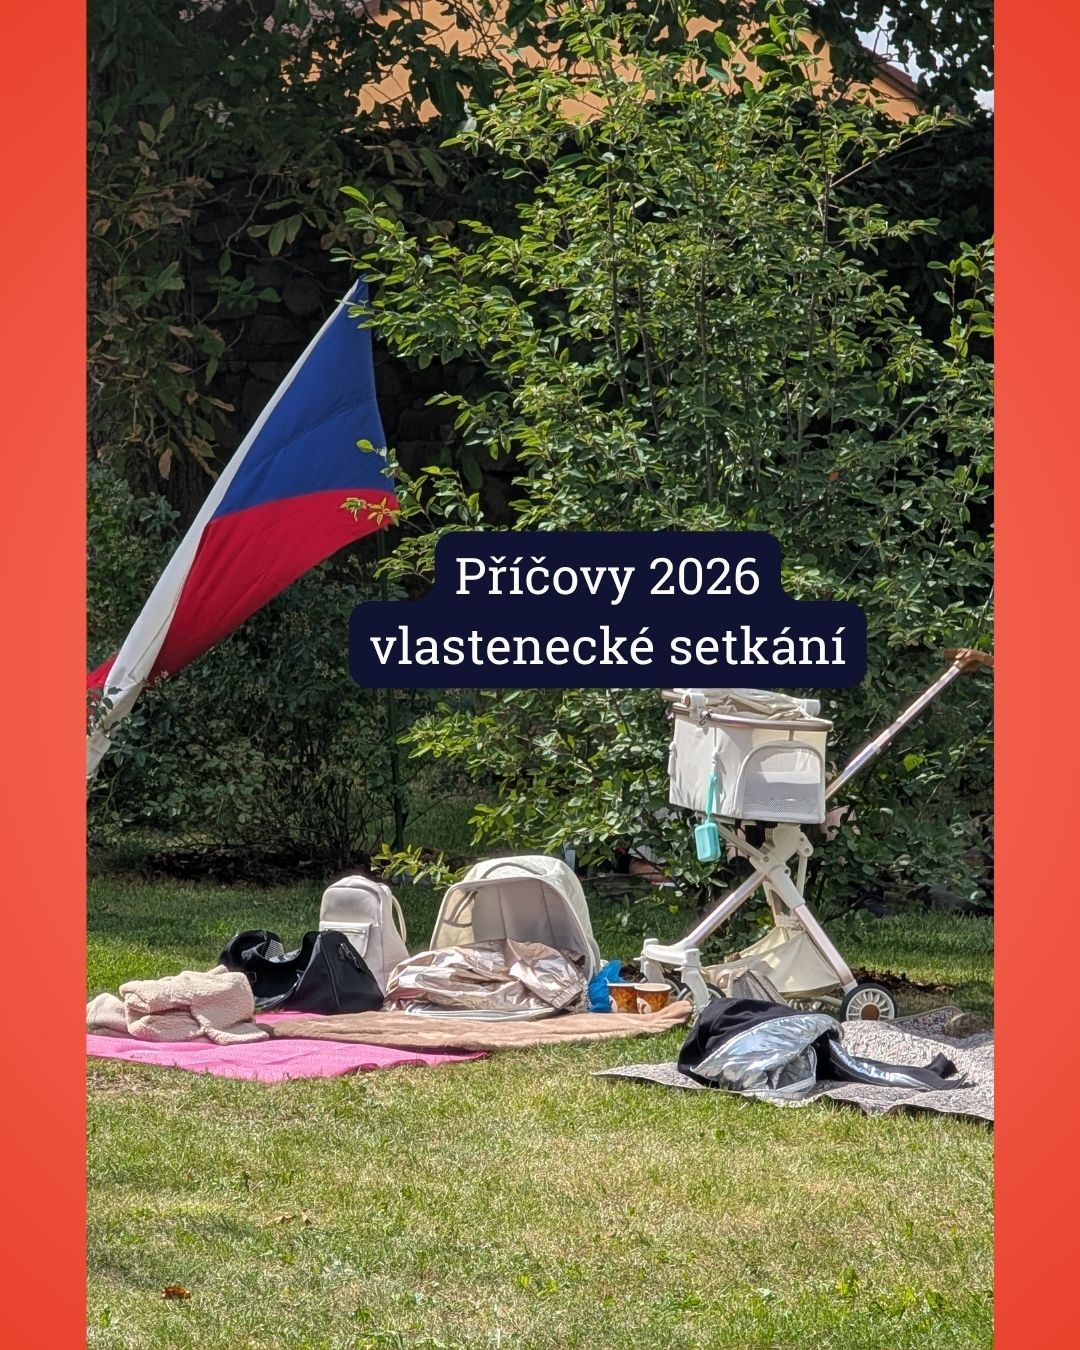
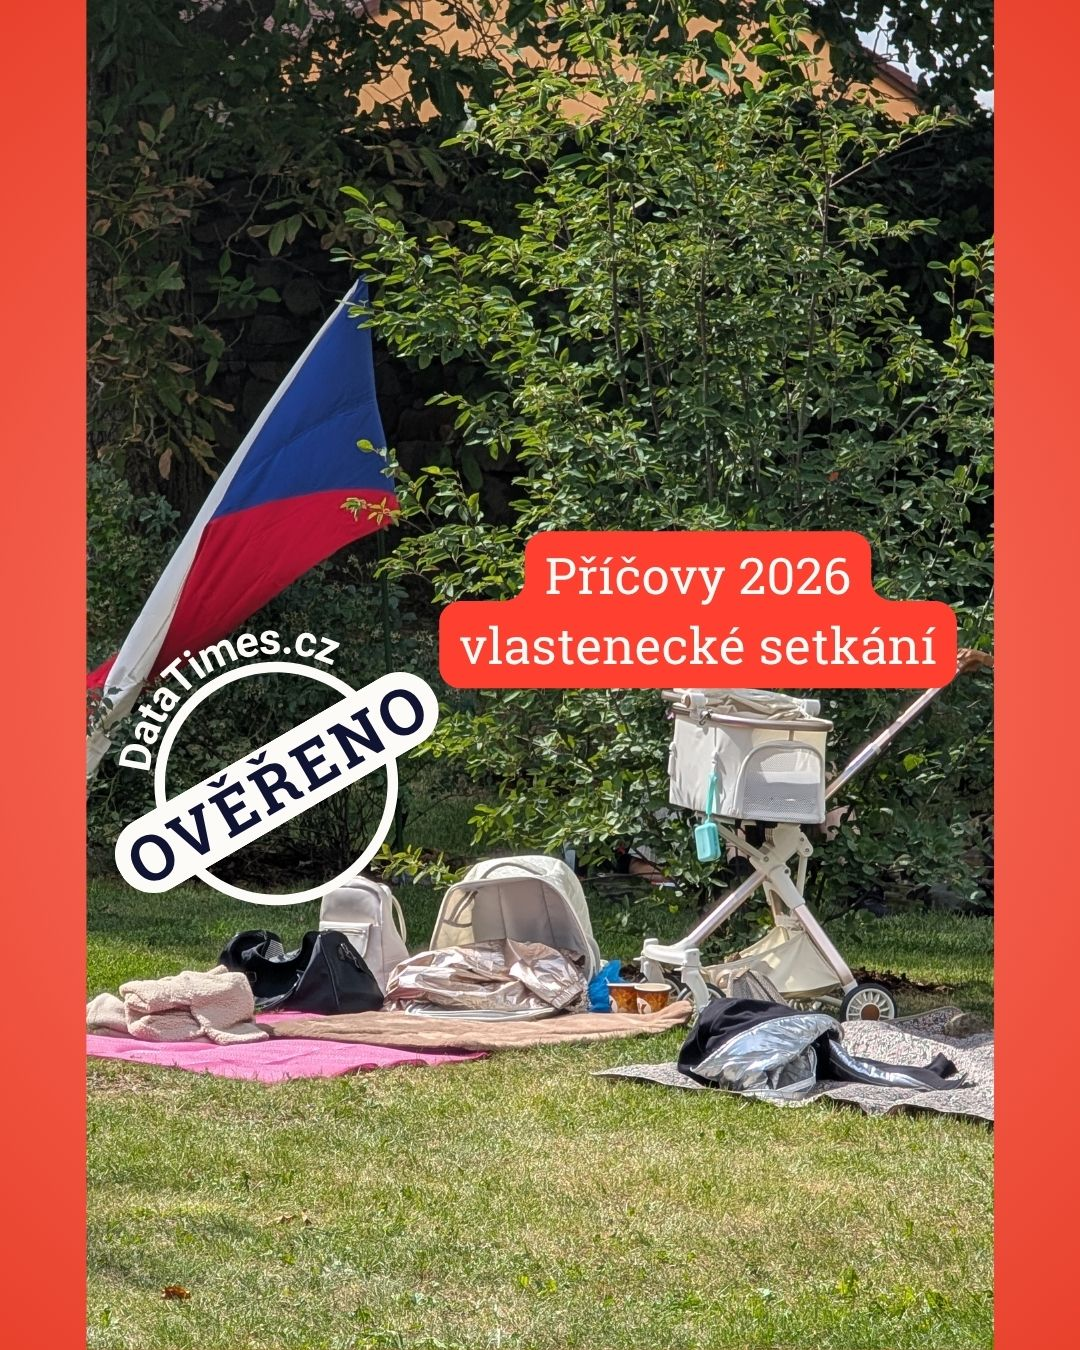
content(clanek): Příčovy – Kulidakis (omluva pro nemoc + zdravice) a ověřený cover (#112)

Changed region(s): [[0.0917, 0.3733, 0.8861, 0.6844]]

diff --git a/apps/web/app/clanek/_articles/analyza-2026-08-23-pricovy-politicka-setkani/index.md b/apps/web/app/clanek/_articles/analyza-2026-08-23-pricovy-politicka-setkani/index.md
@@ -102,7 +102,7 @@ Absolutní počty samy o sobě nestačí. Jeden bývalý politik za osm let znam
 
 Oficiální program ročníku 2026 měl tři panely: o nestrannosti a objektivitě zpravodajství (moderoval <Person id="zantovsky">Petr Žantovský</Person>), o příčinách a následcích válečných konfliktů (<Person id="novotny">Stanislav Novotný</Person>) a Ani na Západ, ani na Východ o možných podobách středoevropské spolupráce (<Person id="semin">Michal Semín</Person>).
 
-Program se přitom během roku měnil. Červnová verze uváděla u druhého panelu jen část jmen a ve třetím počítala místo Ladislava Větvičky s <Person id="bahnik">Petrem Bahníkem</Person>. Mezi avizovanými panelisty o médiích byl i mediální podnikatel <Person id="zelezny">Vladimír Železný</Person>, který nakonec nedorazil. Jako host byl ohlášen také komentátor <Person id="kulidakis">Thomas Kulidakis</Person>.
+Program se přitom během roku měnil. Červnová verze uváděla u druhého panelu jen část jmen a ve třetím počítala místo Ladislava Větvičky s <Person id="bahnik">Petrem Bahníkem</Person>. Mezi avizovanými panelisty o médiích byl i mediální podnikatel <Person id="zelezny">Vladimír Železný</Person>, který nakonec nedorazil. Ohlášený komentátor <Person id="kulidakis">Thomas Kulidakis</Person> se pro nemoc omluvil a místo účasti poslal písemnou zdravici.
 
 Setkání bývá lidmi spojenými s jeho pořádáním [označováno za nepolitické](https://denik.to/komu-a-proc-se-prici-vlastenecke-pricovy/), alespoň ve stranickém smyslu. Program a skladba řečníků však ukazují opak. To, že Příčovy nejsou akcí jediné strany, z nich nedělá nepolitické setkání. Osm let se tu diskutuje o migraci, Evropské unii, válce na Ukrajině, „změně režimu“, médiích nebo státní svrchovanosti. Zaznívají zde politické projevy a záštitu nad akcí převzali prezident republiky i předseda Sněmovny. Příčovy jsou místem, kde se potkávají poměrně jasně vymezené politické proudy.
 
